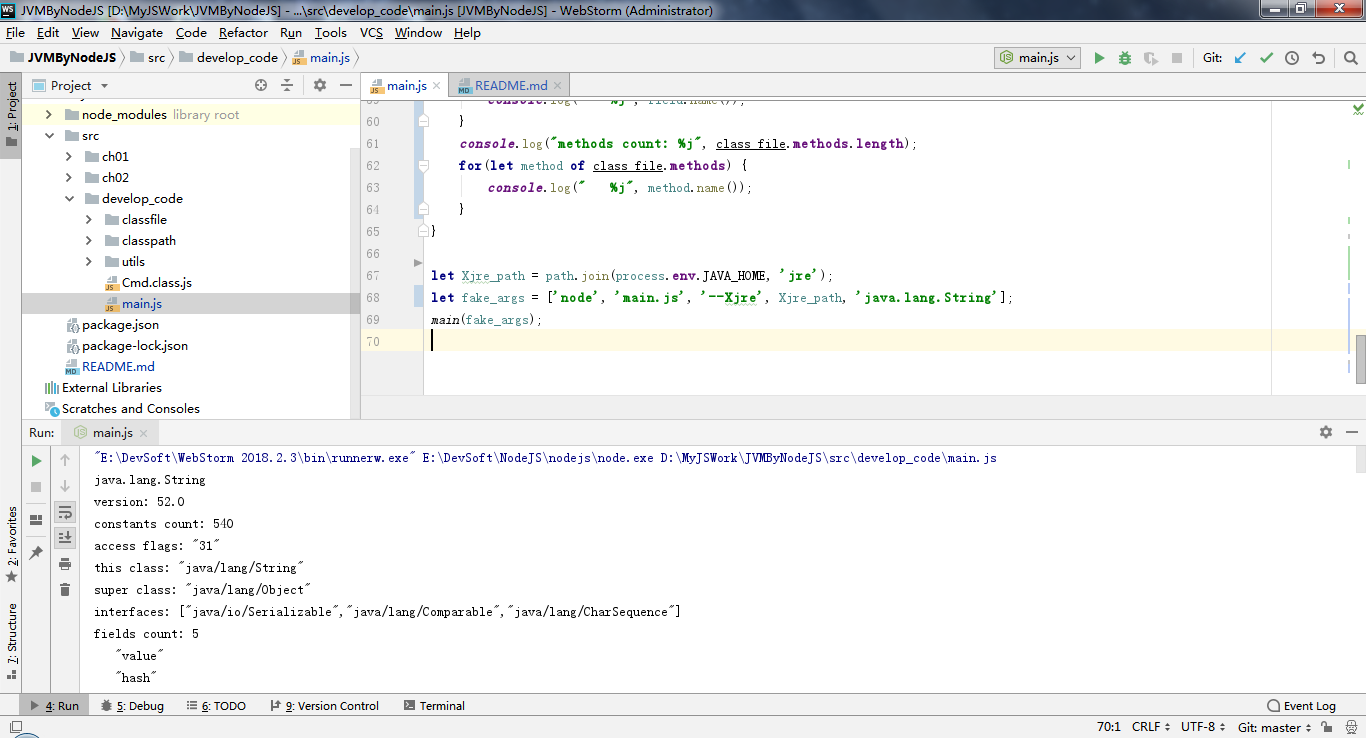
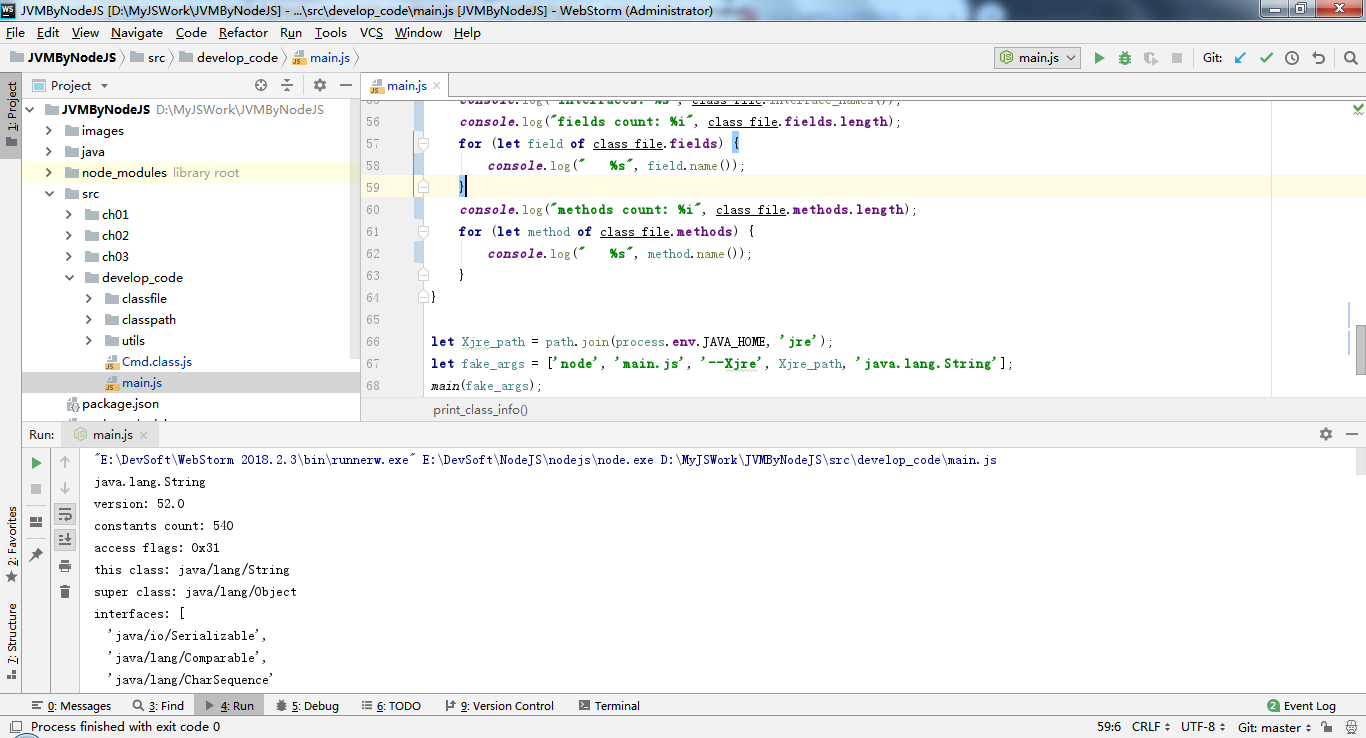
修改输出打印结果

diff --git a/src/ch03/main.js b/src/ch03/main.js
@@ -25,6 +25,7 @@ function main(input_args) {
     start_JVM(cmd);
 }
 
+
 function start_JVM(cmd) {
     // 解析类路径
     let class_path = Classpath.parse(cmd.XjreOption, cmd.cpOption);
@@ -46,19 +47,19 @@ function load_class(class_name, class_path) {
 }
 
 function print_class_info(class_file) {
-    console.log("version: %j.%j", class_file.major_version, class_file.minor_version);
-    console.log("constants count: %j", class_file.constant_pool.cp.length);
-    console.log("access flags: %j", class_file.access_flags.readInt16BE(0).toString(16));
-    console.log("this class: %j", class_file.class_name());
-    console.log("super class: %j", class_file.super_class_name());
-    console.log("interfaces: %j", class_file.interface_names());
-    console.log("fields count: %j", class_file.fields.length);
+    console.log("version: %i.%i", class_file.major_version, class_file.minor_version);
+    console.log("constants count: %s", class_file.constant_pool.cp.length);
+    console.log("access flags: 0x%s", class_file.access_flags.readInt16BE(0).toString(16));
+    console.log("this class: %s", class_file.class_name());
+    console.log("super class: %s", class_file.super_class_name());
+    console.log("interfaces: %s", class_file.interface_names());
+    console.log("fields count: %i", class_file.fields.length);
     for (let field of class_file.fields) {
-        console.log("   %j", field.name());
+        console.log("   %s", field.name());
     }
-    console.log("methods count: %j", class_file.methods.length);
+    console.log("methods count: %i", class_file.methods.length);
     for (let method of class_file.methods) {
-        console.log("   %j", method.name());
+        console.log("   %s", method.name());
     }
 }
 

diff --git a/src/develop_code/main.js b/src/develop_code/main.js
@@ -47,19 +47,19 @@ function load_class(class_name, class_path) {
 }
 
 function print_class_info(class_file) {
-    console.log("version: %j.%j", class_file.major_version, class_file.minor_version);
-    console.log("constants count: %j", class_file.constant_pool.cp.length);
-    console.log("access flags: %j", class_file.access_flags.readInt16BE(0).toString(16));
-    console.log("this class: %j", class_file.class_name());
-    console.log("super class: %j", class_file.super_class_name());
-    console.log("interfaces: %j", class_file.interface_names());
-    console.log("fields count: %j", class_file.fields.length);
+    console.log("version: %i.%i", class_file.major_version, class_file.minor_version);
+    console.log("constants count: %s", class_file.constant_pool.cp.length);
+    console.log("access flags: 0x%s", class_file.access_flags.readInt16BE(0).toString(16));
+    console.log("this class: %s", class_file.class_name());
+    console.log("super class: %s", class_file.super_class_name());
+    console.log("interfaces: %s", class_file.interface_names());
+    console.log("fields count: %i", class_file.fields.length);
     for (let field of class_file.fields) {
-        console.log("   %j", field.name());
+        console.log("   %s", field.name());
     }
-    console.log("methods count: %j", class_file.methods.length);
+    console.log("methods count: %i", class_file.methods.length);
     for (let method of class_file.methods) {
-        console.log("   %j", method.name());
+        console.log("   %s", method.name());
     }
 }
 

diff --git a/src/develop_code/cmd.class.js b/src/develop_code/cmd.class.js
@@ -5,8 +5,8 @@
  * @desc: 命令行类
  */
 
-class Cmd{
-    constructor(program){
+class Cmd {
+    constructor(program) {
         // 指定用户类路径
         this.cpOption = program.classpath;
         // 类名
@@ -20,12 +20,12 @@ class Cmd{
     }
 
     // 打印类信息
-    print_classpath(){
-        console.log('classpath:%j class:%j args:%j\n', this.cpOption, this.class_name, this.args)
+    print_classpath() {
+        console.log('classpath:%s class:%s args:%s', this.cpOption, this.class_name, this.args)
     }
 
     // 打印传入参数
-    print_args(){
+    print_args() {
         return '[' + this.argvs.join(' ') + ']';
     }
 }

diff --git a/src/ch02/main.js b/src/ch02/main.js
@@ -28,7 +28,7 @@ function start_JVM(cmd) {
     // 解析类路径
     let class_path = Classpath.parse(cmd.XjreOption, cmd.cpOption);
     // 打印命令行参数
-    console.log('classpath: %j class: %j args: %j\n', class_path.toString(), cmd.class_name, cmd.args);
+    console.log('classpath: %s class: %s args: %s\n', class_path.toString(), cmd.class_name, cmd.args);
 
     // 读取主类数据
     let class_name = cmd.class_name.replace(/\./g, "/");

diff --git a/src/ch03/Cmd.class.js b/src/ch03/Cmd.class.js
@@ -21,7 +21,7 @@ class Cmd {
 
     // 打印类信息
     print_classpath() {
-        console.log('classpath:%j class:%j args:%j\n', this.cpOption, this.class_name, this.args)
+        console.log('classpath:%s class:%s args:%s', this.cpOption, this.class_name, this.args)
     }
 
     // 打印传入参数
